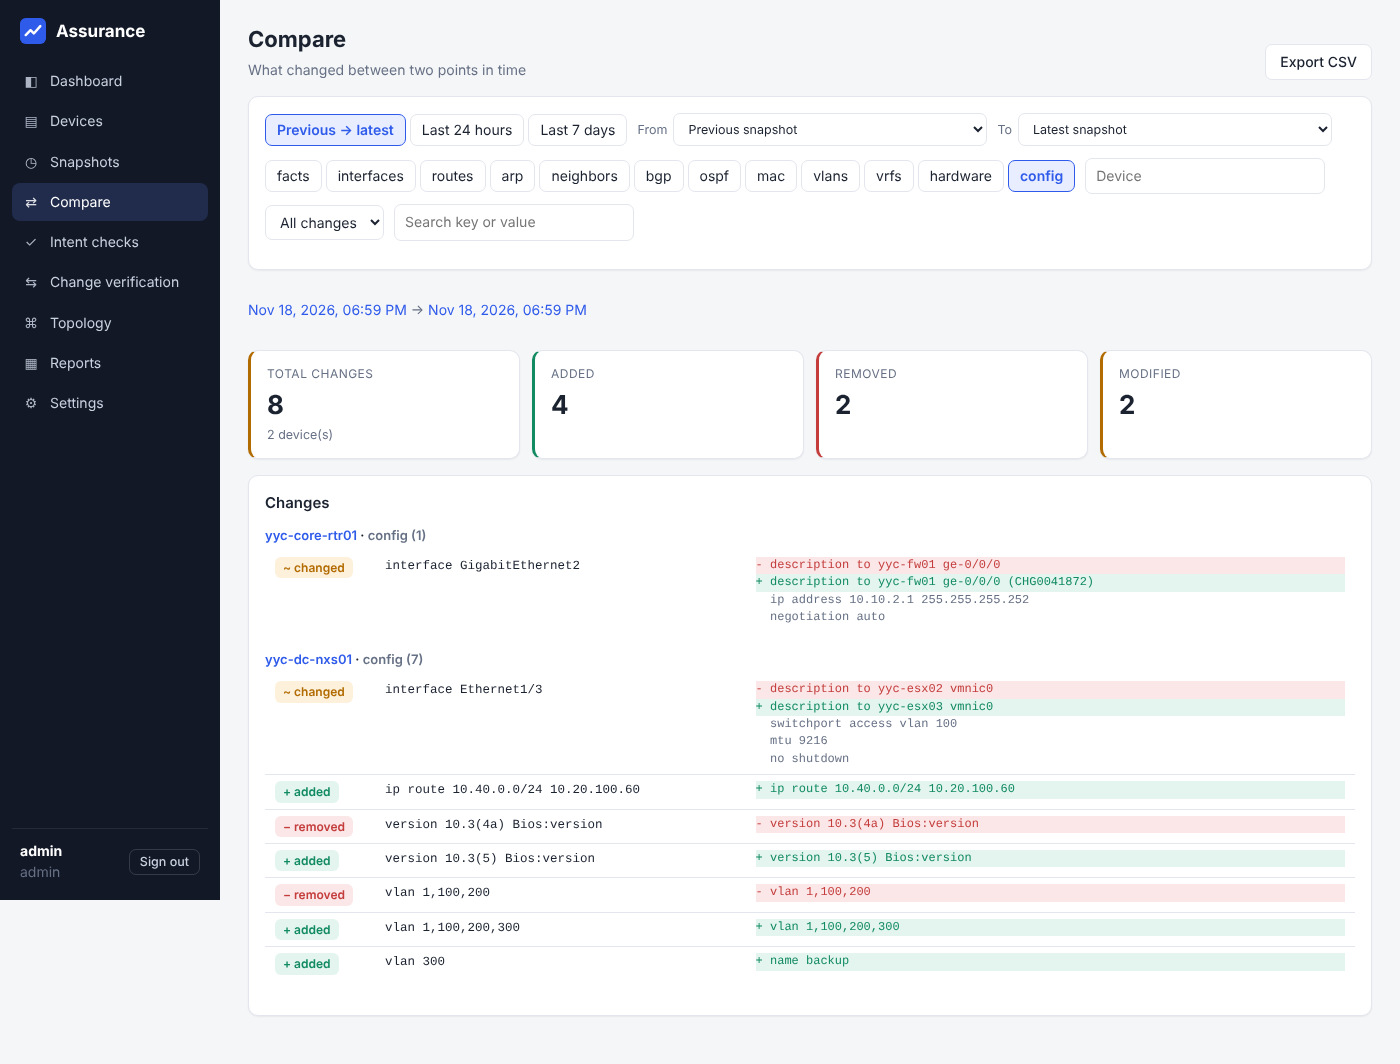
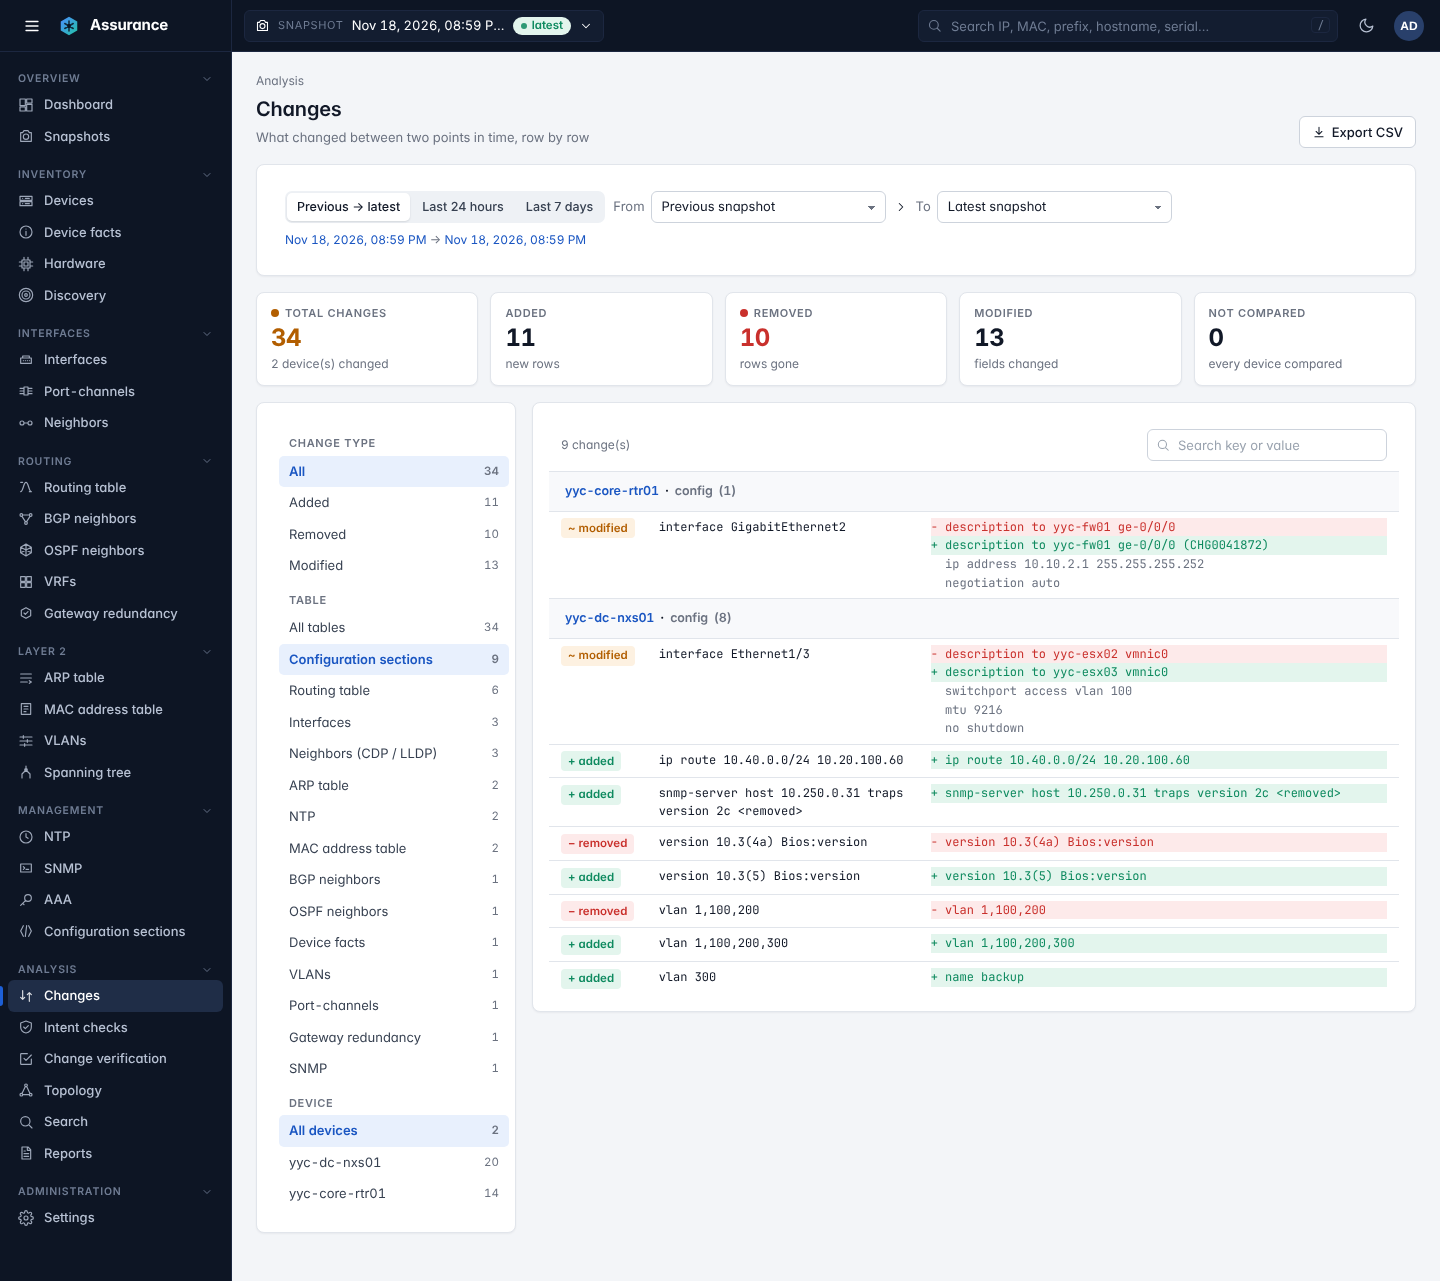
Refresh screenshots, load-test rerun results, fix facet overflow in Changes
Claude-Session: https://claude.ai/code/session_01J1LjLJZviiqMEmofayDHoZ

diff --git a/frontend/src/styles.css b/frontend/src/styles.css
@@ -419,6 +419,7 @@ ins { color: var(--good); text-decoration: none; font-weight: 500; }
 .facet.on { background: var(--accent-soft); color: var(--accent-text); font-weight: 600; }
 .facet .n { font-size: 11.5px; color: var(--muted); font-variant-numeric: tabular-nums; }
 .facet-h { padding: 10px 10px 4px; font-size: 11px; text-transform: uppercase; letter-spacing: 0.06em; color: var(--muted); font-weight: 600; }
+.card > .facet, .card > .facet-h { width: calc(100% - 16px); margin-left: 8px; margin-right: 8px; }
 @media (max-width: 1100px) { .compare-layout { grid-template-columns: 1fr; } .compare-layout aside { position: static; } }
 
 /* checks page bits (kept) */

diff --git a/docs/loadtest-2026-11-18.md b/docs/loadtest-2026-11-18.md
@@ -43,3 +43,28 @@ about 1.2 GB in the worker.
    above being starved or killed while those requests waited; rerun after fixes 1 to 3.
 5. Text search is a sequential `ilike` over the JSON cast of every row (4 to 12 s). Needs a
    trigram index or a search column.
+
+## Rerun after the fixes (same 1,000-device fleet, same machine)
+
+Collection: 3 workers, both snapshots 1,000 of 1,000 devices (one storage race in the first run,
+fixed), 464 s and 472 s, about 128 devices/min. API: 2 processes, 8 clients, 40 requests each.
+No process was killed and nothing ran out of memory.
+
+| Endpoint | Before p50 / p95 | After p50 / p95 |
+|---|---|---|
+| Dashboard overview | 8.1 s / 8.7 s (first rerun) | 86 ms / 226 ms |
+| Device list (page) | | 49 ms / 180 ms |
+| Diff t1 -> t2 (first 500) | | 85 ms / 2.7 s |
+| Diff, one table (routes) | 16 s+ tail | 151 ms / 2.6 s |
+| Global search (IP) | OOM at 7.1 GB | 2.6 s / 5.4 s (0.7 s single request) |
+| Global search (text) | 4.3 s / 12.3 s | 29 ms / 54 ms |
+| Config search | 1.5 s / 2.1 s | 1.2 s / 1.9 s |
+| Topology | 642 ms / 667 ms | 251 ms / 478 ms |
+| Change report (CSV, 4 MB) | 1.7 s / 40.6 s | 1.0 s / 1.3 s |
+| Pre/post, whole fleet | OOM | 8.8 s / 14 s (2.9 s single request) |
+
+What changed: state tables, diffs and route lookups run in SQL; a covering index makes a diff a merge
+join of two index-only scans; the dashboard reads per-device change counts stored at finalize; text
+search uses a trigram index. Remaining tails are 8 clients sharing 2 processes on CPU-bound requests;
+Compose now runs 4 API processes. Storage measured at about 780 bytes per state row including
+indexes (about 0.54M rows per snapshot at 1,000 devices with 1,000 routes each).

diff --git a/README.md b/README.md
@@ -9,6 +9,9 @@ dependency on any external source of truth or orchestrator.
 
 ![Dashboard](docs/screenshots/dashboard.png)
 
+| ![1,000-device fleet](docs/screenshots/dashboard-1000-devices.png) | ![Dark theme](docs/screenshots/dashboard-dark.png) | ![Interfaces table](docs/screenshots/interfaces.png) |
+|---|---|---|
+
 | Change verification | Topology | Config diff |
 |---|---|---|
 | ![Verify](docs/screenshots/verify.png) | ![Topology](docs/screenshots/topology.png) | ![Config diff](docs/screenshots/compare-config.png) |
